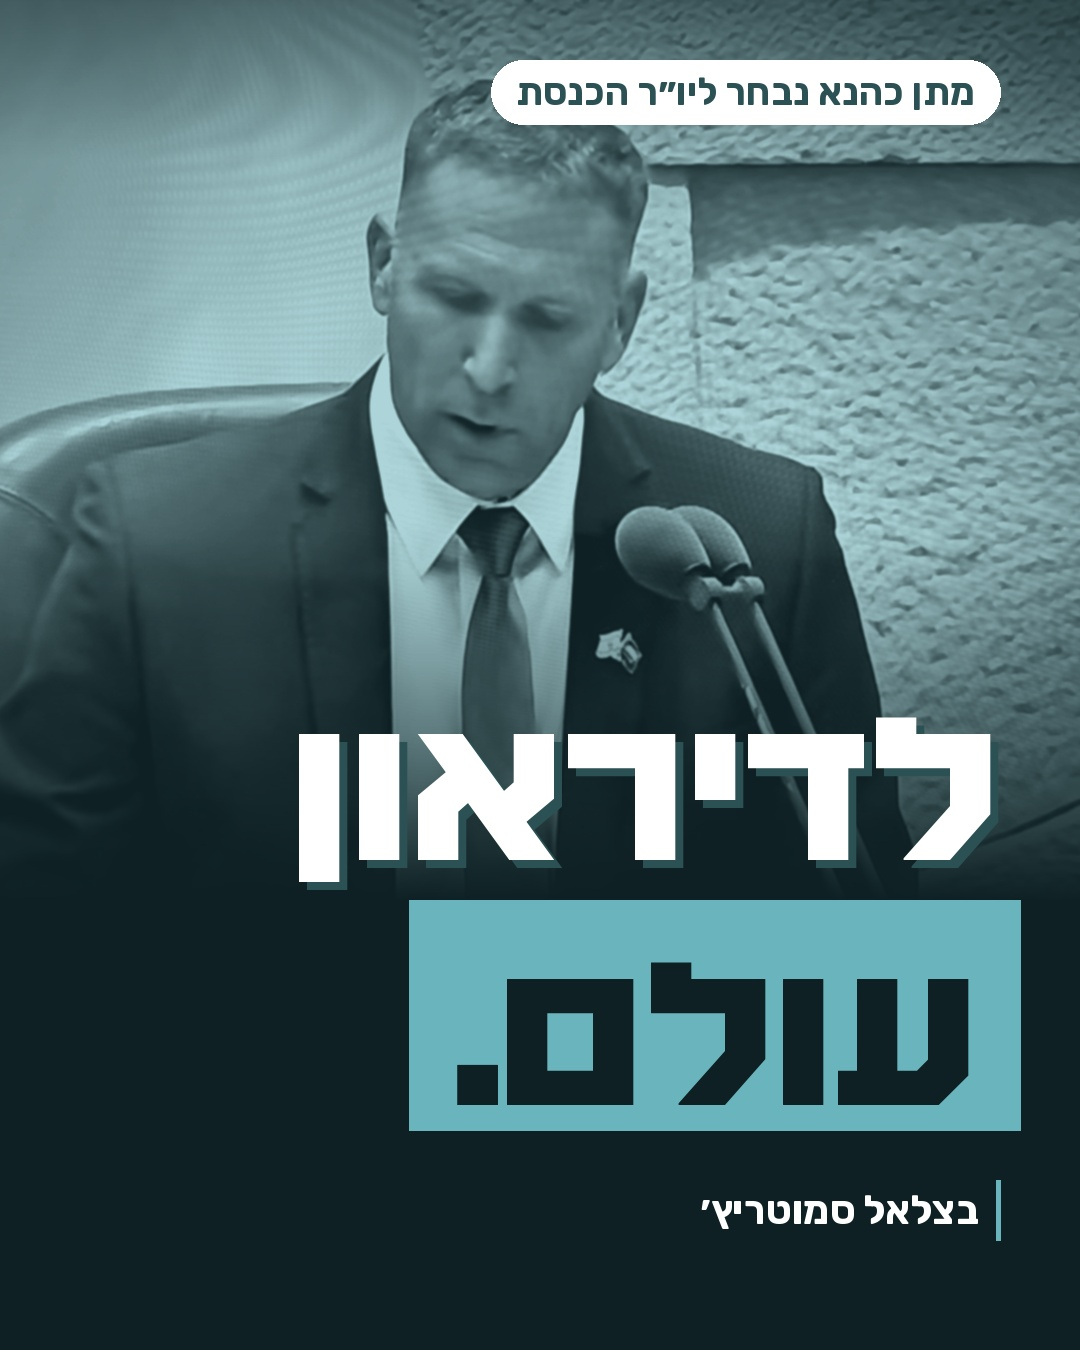
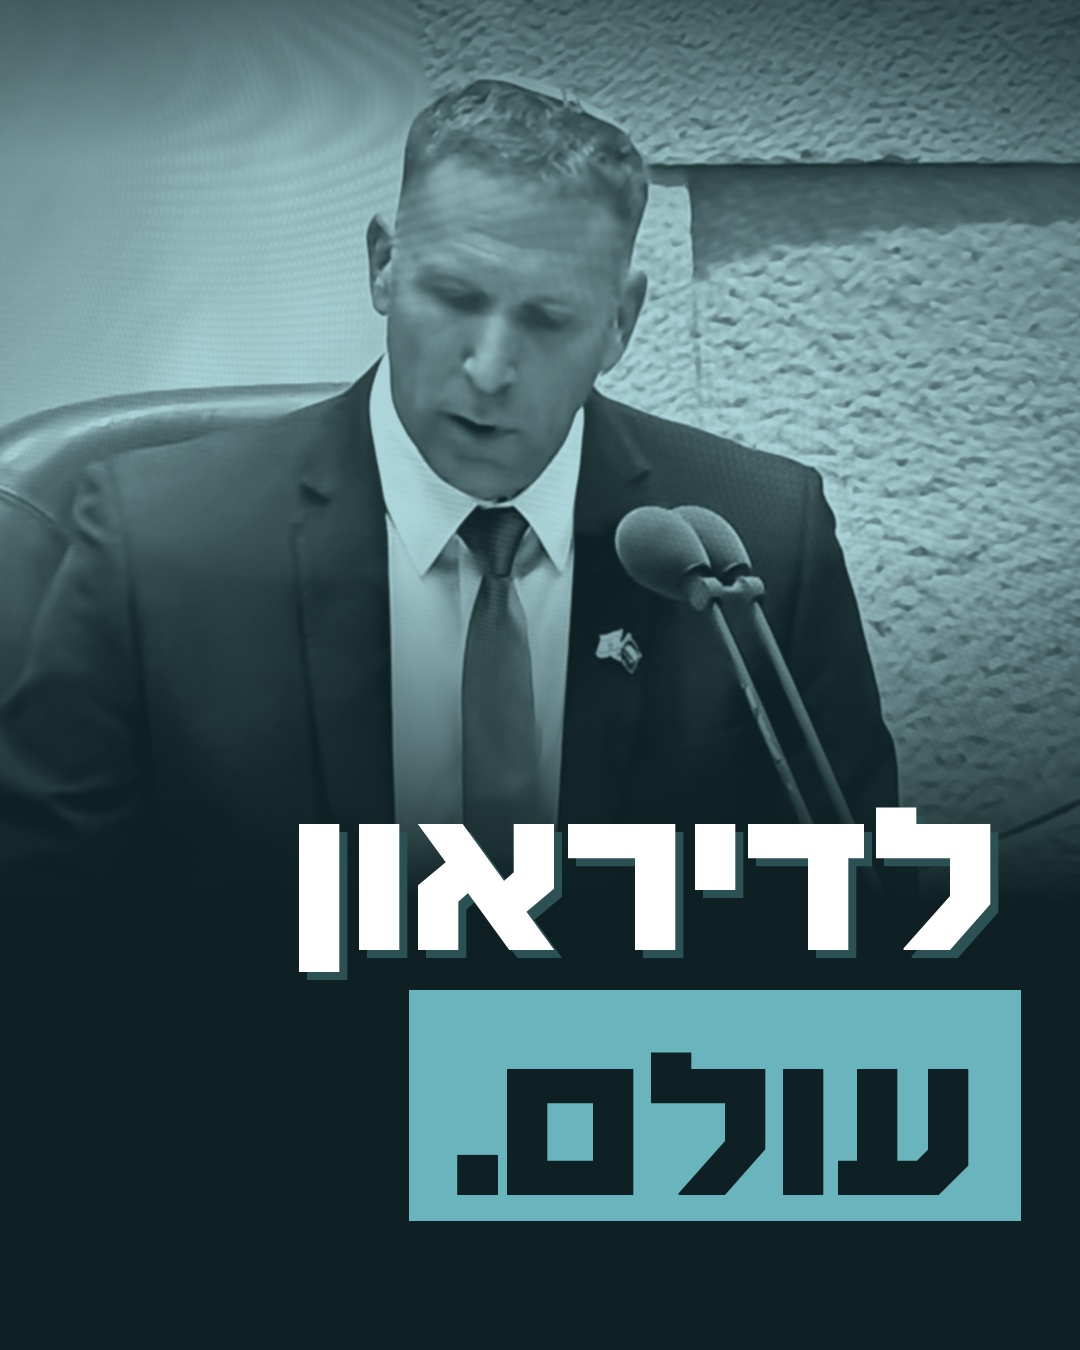
RZ dirayon post: headline only
Claude-Session: https://claude.ai/code/session_01RS3QK6pAd3YhyAuXZSJjH1

Changed region(s): [[0.275, 0.5289, 0.9472, 0.9333], [0.4583, 0.0311, 0.9472, 0.0933]]

diff --git a/content-kit/hatzionut-hadatit/2026-11-post-dirayon/make2.py b/content-kit/hatzionut-hadatit/2026-11-post-dirayon/make2.py
@@ -16,12 +16,8 @@ for y in range(H): od.line((0, y, W, y), fill=NIGHT + (int(255 * min(1, max(0, (
 for y in range(160): od.line((0, y, W, y), fill=NIGHT + (int(120 * (1 - y / 160)),))
 im.alpha_composite(ov); d = ImageDraw.Draw(im)
 R = W - 80
-pill = 'מתן כהנא נבחר ליו״ר הכנסת'; fp = F(RUB, 38); pw = d.textlength(pill, font=fp, direction='rtl')
-d.rounded_rectangle((R - pw - 50, 60, R, 124), 32, fill=(255, 255, 255)); d.text((R - 25, 92), pill, font=fp, fill=DEEP, anchor='rm', direction='rtl')
-fh = F(KB, 210); y = 860
+fh = F(KB, 210); y = 950
 d.text((R + 8, y + 8), 'לדיראון', font=fh, fill=DEEP, anchor='rs', direction='rtl'); d.text((R, y), 'לדיראון', font=fh, fill=(255, 255, 255), anchor='rs', direction='rtl')
 t = 'עולם.'; tw = d.textlength(t, font=fh, direction='rtl')
 d.rectangle((R - tw - 60, y + 40, R + 20, y + 270), fill=LT); d.text((R - 22, y + 245), t, font=fh, fill=NIGHT, anchor='rs', direction='rtl')
-d.rectangle((R - 4, y + 320, R, y + 380), fill=LT)
-d.text((R - 22, y + 350), 'בצלאל סמוטריץ׳', font=F(RUB, 40), fill=(255, 255, 255), anchor='rm', direction='rtl')
 im.convert('RGB').save(HERE + '/post-v2.jpg', quality=95)
